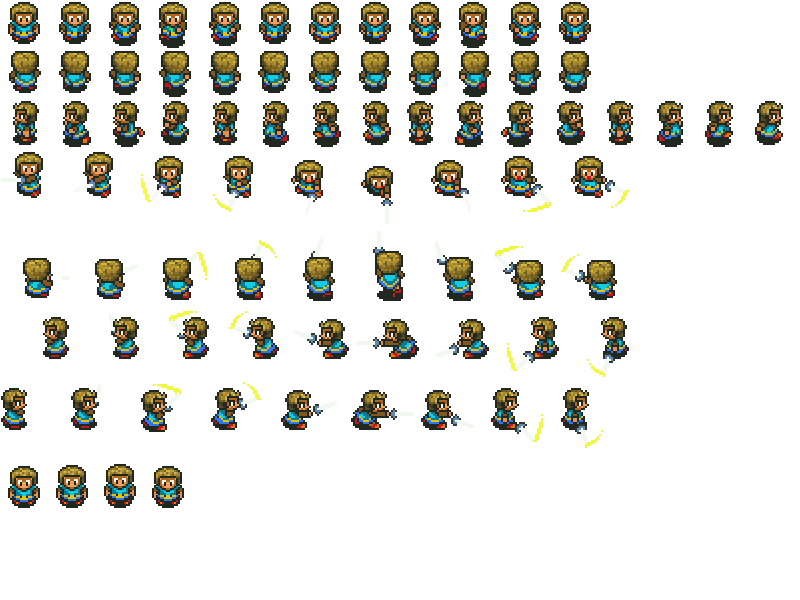
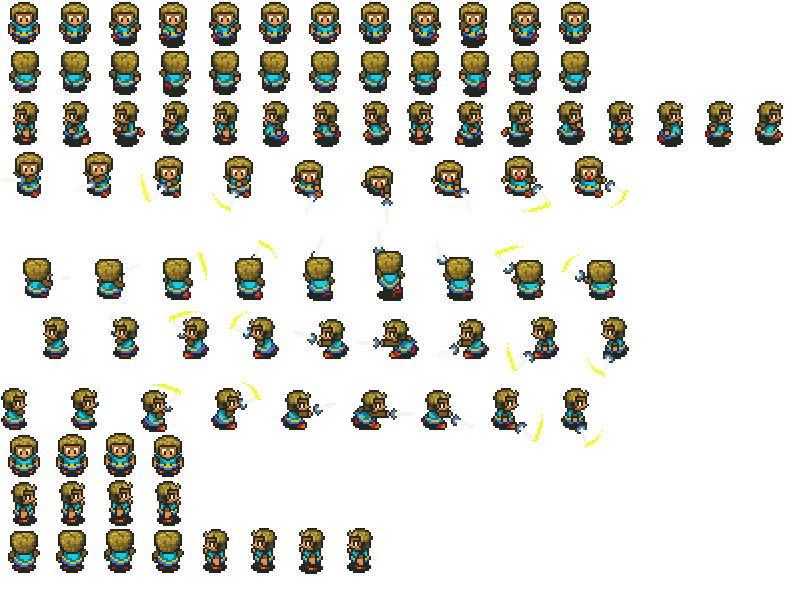
Idle Animations for Swordsman; Unique Fps for each Animation
Unique Fps for Idle Animation does not work correctly. 
Fps passed to AnimatedSprite is used, not Fps for EAnimation.Idle

diff --git a/MonoGameJRPG_Ver.2/MonoGameJRPG_Ver.2/TwoDGameEngine/Graphics/Sprites/SpriteFactory.cs b/MonoGameJRPG_Ver.2/MonoGameJRPG_Ver.2/TwoDGameEngine/Graphics/Sprites/SpriteFactory.cs
@@ -12,42 +12,8 @@ namespace MonoGameJRPG_Ver._2.TwoDGameEngine.Graphics.Sprites
 {
     public static class SpriteFactory
     {
-        #region MenuElements
+        #region Characters
 
-        public static AnimatedSprite NewGameButton(Vector2 position)
-        {
-            Texture2D btnTexture = Contents.btnNewGame;
-            if (btnTexture == null)
-                throw new Exception("Contents.btnNewGame Texture not loaded!");
-
-            AnimatedSprite newGameBtn = new AnimatedSprite("NewGameBtn", Contents.btnNewGame, position, 5);
-            newGameBtn.AddAnimation(EAnimation.Idle, 12, 48, 13, 0, 0, Vector2.Zero);
-            return newGameBtn;
-        }
-        public static AnimatedSprite GlowingButton(Vector2 position)
-        {
-            Texture2D glowingButtonTex = Contents.glowingButton;
-            if (glowingButtonTex == null)
-                throw new Exception("Contents.glowingButton Texture not loaded!");
-
-            AnimatedSprite glowingButton = new AnimatedSprite("GlowingButton", glowingButtonTex, position, 12);
-            glowingButton.AddAnimation(EAnimation.Idle, 1, 120, 50, 0, 0, Vector2.Zero);
-            glowingButton.AddAnimation(EAnimation.MouseHover, 14, 120, 50, 0, 0, Vector2.Zero);
-
-            return glowingButton;
-        }
-        public static AnimatedSprite DiscoButton(Vector2 position)
-        {
-            Texture2D discoButtonTex = Contents.discoButton;
-            if (discoButtonTex == null)
-                throw new Exception("Contents.DiscoButton Texture not loaded!");
-
-            AnimatedSprite discoButton = new AnimatedSprite("DiscoButton", discoButtonTex, position, 60);
-            discoButton.AddAnimation(EAnimation.Idle, 1, 18, 18, 0, 0, Vector2.Zero);
-            discoButton.AddAnimation(EAnimation.MouseHover, 36, 18, 18, 0, 0, Vector2.Zero);
-
-            return discoButton;
-        }
         public static AnimatedSprite BowlingBall(Vector2 position)
         {
             Texture2D bowlingBallTexture = Contents.bowlingBall;
@@ -61,16 +27,16 @@ namespace MonoGameJRPG_Ver._2.TwoDGameEngine.Graphics.Sprites
                 Right = Keys.D,
                 Down = Keys.S
             });
-            bowlingBall.AddAnimation(EAnimation.Idle, 1, 32, 32, 0, 0, Vector2.Zero);
-            bowlingBall.AddAnimation(EAnimation.IdleLeft, 1, 32, 32, 0, 0, Vector2.Zero);
-            bowlingBall.AddAnimation(EAnimation.IdleUp, 1, 32, 32, 0, 0, Vector2.Zero);
-            bowlingBall.AddAnimation(EAnimation.IdleRight, 1, 32, 32, 0, 0, Vector2.Zero);
-            bowlingBall.AddAnimation(EAnimation.IdleDown, 1, 32, 32, 0, 0, Vector2.Zero);
+            bowlingBall.AddAnimation(EAnimation.Idle, 1, 32, 32, 0, 0, Vector2.Zero, 1);
+            bowlingBall.AddAnimation(EAnimation.IdleLeft, 1, 32, 32, 0, 0, Vector2.Zero, 1);
+            bowlingBall.AddAnimation(EAnimation.IdleUp, 1, 32, 32, 0, 0, Vector2.Zero, 1);
+            bowlingBall.AddAnimation(EAnimation.IdleRight, 1, 32, 32, 0, 0, Vector2.Zero, 1);
+            bowlingBall.AddAnimation(EAnimation.IdleDown, 1, 32, 32, 0, 0, Vector2.Zero, 1);
 
-            bowlingBall.AddAnimation(EAnimation.Left, 9, 32, 32, 32, 0, Vector2.Zero);
-            bowlingBall.AddAnimation(EAnimation.Up, 9, 32, 32, 32, 0, Vector2.Zero);
-            bowlingBall.AddAnimation(EAnimation.Right, 9, 32, 32, 0, 0, Vector2.Zero);
-            bowlingBall.AddAnimation(EAnimation.Down, 9, 32, 32, 32, 0, Vector2.Zero);
+            bowlingBall.AddAnimation(EAnimation.Left, 9, 32, 32, 32, 0, Vector2.Zero, 10);
+            bowlingBall.AddAnimation(EAnimation.Up, 9, 32, 32, 32, 0, Vector2.Zero, 10);
+            bowlingBall.AddAnimation(EAnimation.Right, 9, 32, 32, 0, 0, Vector2.Zero, 10);
+            bowlingBall.AddAnimation(EAnimation.Down, 9, 32, 32, 32, 0, Vector2.Zero, 10);
 
             return bowlingBall;
         }
@@ -78,30 +44,76 @@ namespace MonoGameJRPG_Ver._2.TwoDGameEngine.Graphics.Sprites
         {
             Texture2D swordsmanTex = Contents.swordsman;
 
-            AnimatedSprite swordsman = new AnimatedSprite("Swordsman", swordsmanTex, position, PlayerIndex.One, 8, new KeyboardInput()
+            AnimatedSprite swordsman = new AnimatedSprite("Swordsman", swordsmanTex, position, PlayerIndex.One, 5, new KeyboardInput()
             {
                 Left = Keys.A,
                 Up = Keys.W,
                 Right = Keys.D,
                 Down = Keys.S
             });
-            swordsman.AddAnimation(EAnimation.Idle, 4, 48, 43, 465, 0, new Vector2(0, 0));
 
-            swordsman.AddAnimation(EAnimation.IdleLeft, 4, 48, 43, 465, 0, new Vector2(0, 0));
-            swordsman.AddAnimation(EAnimation.IdleUp, 4, 48, 43, 465, 0, new Vector2(0, 0));
-            swordsman.AddAnimation(EAnimation.IdleRight, 4, 48, 43, 465, 0, new Vector2(0, 0));
-            swordsman.AddAnimation(EAnimation.IdleDown, 4, 48, 43, 465, 0, new Vector2(0, 0));
+            // Idle Animation that is played on startup
+            swordsman.AddAnimation(EAnimation.Idle, 4, 48, 43, 433, 0, new Vector2(0, 0), 5);
 
-            swordsman.AddAnimation(EAnimation.Left, 8, 50, 50, 100, 0, new Vector2(0, 0));
-            swordsman.AddAnimation(EAnimation.Up, 12, 50, 50, 50, 0, new Vector2(0, 0));
-            swordsman.AddAnimation(EAnimation.Right, 8, 50, 50, 100, 8, new Vector2(0, 0));
-            swordsman.AddAnimation(EAnimation.Down, 12, 50, 50, 0, 0, new Vector2(0, 0));
+            // Idle Animations for each direction.
+            swordsman.AddAnimation(EAnimation.IdleLeft, 4, 48, 43, 528, 4, new Vector2(0, 0), 5);
+            swordsman.AddAnimation(EAnimation.IdleUp, 4, 48, 43, 528, 0, new Vector2(0, 0), 5);
+            swordsman.AddAnimation(EAnimation.IdleRight, 4, 48, 43, 480, 0, new Vector2(0, 0), 5);
+            swordsman.AddAnimation(EAnimation.IdleDown, 4, 48, 43, 433, 0, new Vector2(0, 0), 5);
+
+            // Movement Animations for each direction.
+            swordsman.AddAnimation(EAnimation.Left, 8, 50, 50, 100, 0, new Vector2(0, 0), 15);
+            swordsman.AddAnimation(EAnimation.Up, 12, 50, 50, 50, 0, new Vector2(0, 0), 15);
+            swordsman.AddAnimation(EAnimation.Right, 8, 50, 50, 100, 8, new Vector2(0, 0), 15);
+            swordsman.AddAnimation(EAnimation.Down, 12, 50, 50, 0, 0, new Vector2(0, 0), 15);
+
+            swordsman.PlayAnimation(EAnimation.Idle);
+
+            // Attack Animations for each direction.
             //swordsman.AddAnimation(9, 150, 0, "AttackDown", 70, 80, new Vector2(0, 0));
             //swordsman.AddAnimation(9, 230, 0, "AttackUp", 70, 80, new Vector2(-13, -27));
             //swordsman.AddAnimation(9, 310, 0, "AttackLeft", 70, 70, new Vector2(-30, -5));
             //swordsman.AddAnimation(9, 380, 0, "AttackRight", 70, 70, new Vector2(+15, -5));
 
             return swordsman;
+        }
+
+        #endregion
+        #region MenuElements
+
+        public static AnimatedSprite NewGameButton(Vector2 position)
+        {
+            Texture2D btnTexture = Contents.btnNewGame;
+            if (btnTexture == null)
+                throw new Exception("Contents.btnNewGame Texture not loaded!");
+
+            AnimatedSprite newGameBtn = new AnimatedSprite("NewGameBtn", Contents.btnNewGame, position, 5);
+            newGameBtn.AddAnimation(EAnimation.Idle, 12, 48, 13, 0, 0, Vector2.Zero, 10);
+            return newGameBtn;
+        }
+        public static AnimatedSprite GlowingButton(Vector2 position)
+        {
+            Texture2D glowingButtonTex = Contents.glowingButton;
+            if (glowingButtonTex == null)
+                throw new Exception("Contents.glowingButton Texture not loaded!");
+
+            AnimatedSprite glowingButton = new AnimatedSprite("GlowingButton", glowingButtonTex, position, 12);
+            glowingButton.AddAnimation(EAnimation.Idle, 1, 120, 50, 0, 0, Vector2.Zero, 1);
+            glowingButton.AddAnimation(EAnimation.MouseHover, 14, 120, 50, 0, 0, Vector2.Zero, 10);
+
+            return glowingButton;
+        }
+        public static AnimatedSprite DiscoButton(Vector2 position)
+        {
+            Texture2D discoButtonTex = Contents.discoButton;
+            if (discoButtonTex == null)
+                throw new Exception("Contents.DiscoButton Texture not loaded!");
+
+            AnimatedSprite discoButton = new AnimatedSprite("DiscoButton", discoButtonTex, position, 60);
+            discoButton.AddAnimation(EAnimation.Idle, 1, 18, 18, 0, 0, Vector2.Zero, 1);
+            discoButton.AddAnimation(EAnimation.MouseHover, 36, 18, 18, 0, 0, Vector2.Zero, 10);
+
+            return discoButton;
         }
 
         #endregion

diff --git a/MonoGameJRPG_Ver.2/MonoGameJRPG_Ver.2/TwoDGameEngine/Graphics/Sprites/AnimatedSprite.cs b/MonoGameJRPG_Ver.2/MonoGameJRPG_Ver.2/TwoDGameEngine/Graphics/Sprites/AnimatedSprite.cs
@@ -24,9 +24,15 @@ namespace MonoGameJRPG_Ver._2.TwoDGameEngine.Graphics.Sprites
         private Dictionary<EAnimation, Rectangle[]> _animations = new Dictionary<EAnimation, Rectangle[]>();
 
         /// <summary>
-        /// Stores Vector2s used for offsetting certain Animations.
+        /// Stores Vector2s used for offsetting certain Animations may differ in size.
         /// </summary>
         private Dictionary<EAnimation, Vector2> _offsets = new Dictionary<EAnimation, Vector2>();
+
+        /// <summary>
+        /// Stores Fps values for each Animation. Due to varying number of frames between Animations, some may need
+        /// to be played slower or faster.
+        /// </summary>
+        private Dictionary<EAnimation, int> _fpsValues = new Dictionary<EAnimation, int>();
 
         /// <summary>
         /// Accumulates time with each Update() call until _timeToUpdate is reached.
@@ -46,7 +52,7 @@ namespace MonoGameJRPG_Ver._2.TwoDGameEngine.Graphics.Sprites
         /// <summary>
         /// Current Animation
         /// </summary>
-        private EAnimation _currentAnimation;
+        private EAnimation _currentAnimation = EAnimation.Idle;
 
         /// <summary>
         /// Enum to store in which direction the AnimatedSprite is facing.
@@ -84,9 +90,7 @@ namespace MonoGameJRPG_Ver._2.TwoDGameEngine.Graphics.Sprites
         public AnimatedSprite(string name, Texture2D texture, Vector2 position, PlayerIndex playerIndex, int fps = 20, KeyboardInput keyboardInput = null, GamePadInput gamePadInput = null) : base(name, texture, position, keyboardInput, gamePadInput, playerIndex)
         {
             _isPlayerControlled = true;
-
             Fps = fps;
-            PlayAnimation(EAnimation.Idle);
         }
 
         /// <summary>
@@ -100,7 +104,6 @@ namespace MonoGameJRPG_Ver._2.TwoDGameEngine.Graphics.Sprites
         {
             _isPlayerControlled = false;
             Fps = fps;
-            PlayAnimation(EAnimation.Idle);
         }
 
         /// <summary>
@@ -119,7 +122,7 @@ namespace MonoGameJRPG_Ver._2.TwoDGameEngine.Graphics.Sprites
         /// <param animation="frameWidth"></param>
         /// <param animation="frameHeight"></param>
         /// <param animation="offset"></param>
-        public void AddAnimation(EAnimation name, int numFrames, int frameWidth, int frameHeight, int yRow, int indexFirstFrame, Vector2 offset)
+        public void AddAnimation(EAnimation name, int numFrames, int frameWidth, int frameHeight, int yRow, int indexFirstFrame, Vector2 offset, int fps)
         {
             // Creates an array of rectangles (i.e. a new Animation).
             Rectangle[] animation = new Rectangle[numFrames];
@@ -131,6 +134,8 @@ namespace MonoGameJRPG_Ver._2.TwoDGameEngine.Graphics.Sprites
             // Store frames and offset in two different dictionaries. But both with same key (animation.)
             _animations.Add(name, animation);
             _offsets.Add(name, offset);
+            _fpsValues.Add(name, fps);
+            Console.WriteLine(_fpsValues.Count);
         }
 
         /// <summary>
@@ -380,6 +385,7 @@ namespace MonoGameJRPG_Ver._2.TwoDGameEngine.Graphics.Sprites
 
                 _currentAnimation = animation;
                 _currentFrameIndex = 0;
+                Fps = _fpsValues[animation];
             }
         }
 

diff --git a/MonoGameJRPG_Ver.2/MonoGameJRPG_Ver.2/TwoDGameEngine/Graphics/Sprites/Sprite.cs b/MonoGameJRPG_Ver.2/MonoGameJRPG_Ver.2/TwoDGameEngine/Graphics/Sprites/Sprite.cs
@@ -13,7 +13,7 @@ namespace MonoGameJRPG_Ver._2.TwoDGameEngine.Graphics.Sprites
 {
     public class Sprite : GameObject, ICollidable
     {
-        public static bool drawBoundingBox = true;
+        public static bool drawBoundingBox = false;
 
         #region MemberVariables
 
